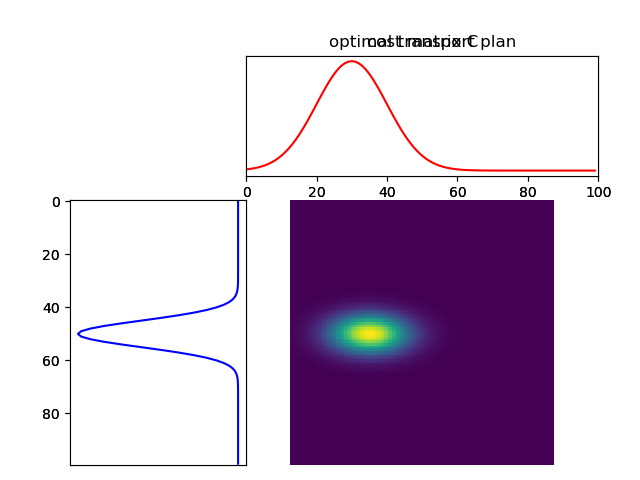
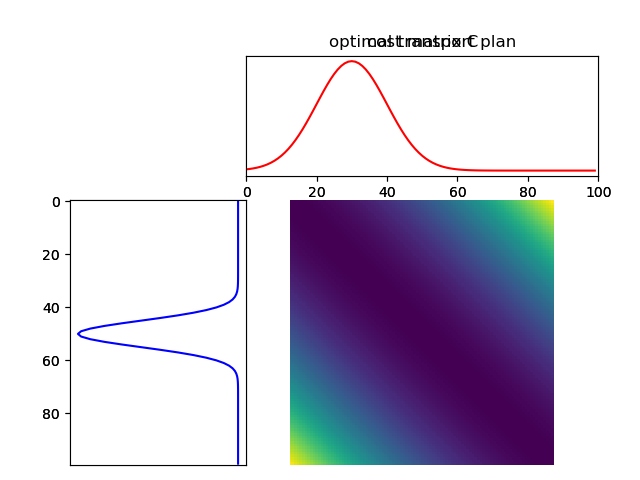
epsilon=0.00001

Changed region(s): [[0.4375, 0.5625, 0.75, 0.9688], [0.5625, 0.4062, 0.875, 0.8125]]

diff --git a/SinkhornEOT.py b/SinkhornEOT.py
@@ -9,7 +9,7 @@ from tqdm import tqdm
 
 # Sinkhorn parameters
 n = 100 # probability vectors in \R^n
-epsilon = 0.5 # regularization parameter
+epsilon = 0.0000001 # regularization parameter
 iters = 1000000 # number of iterations
 
 # Initializing marginal probability vectors
